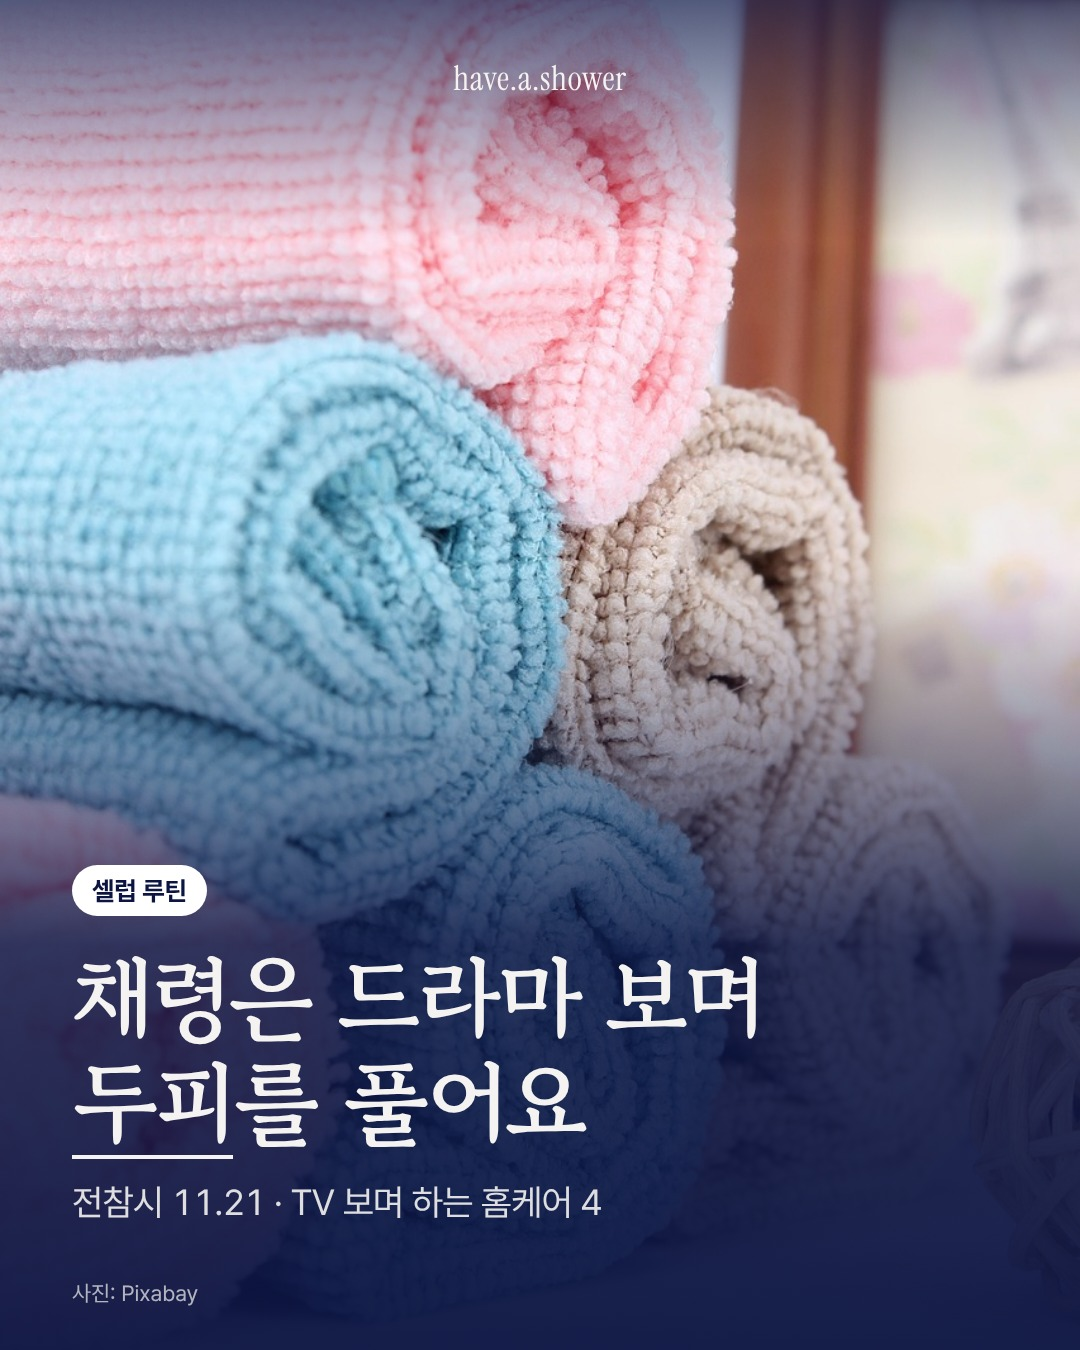
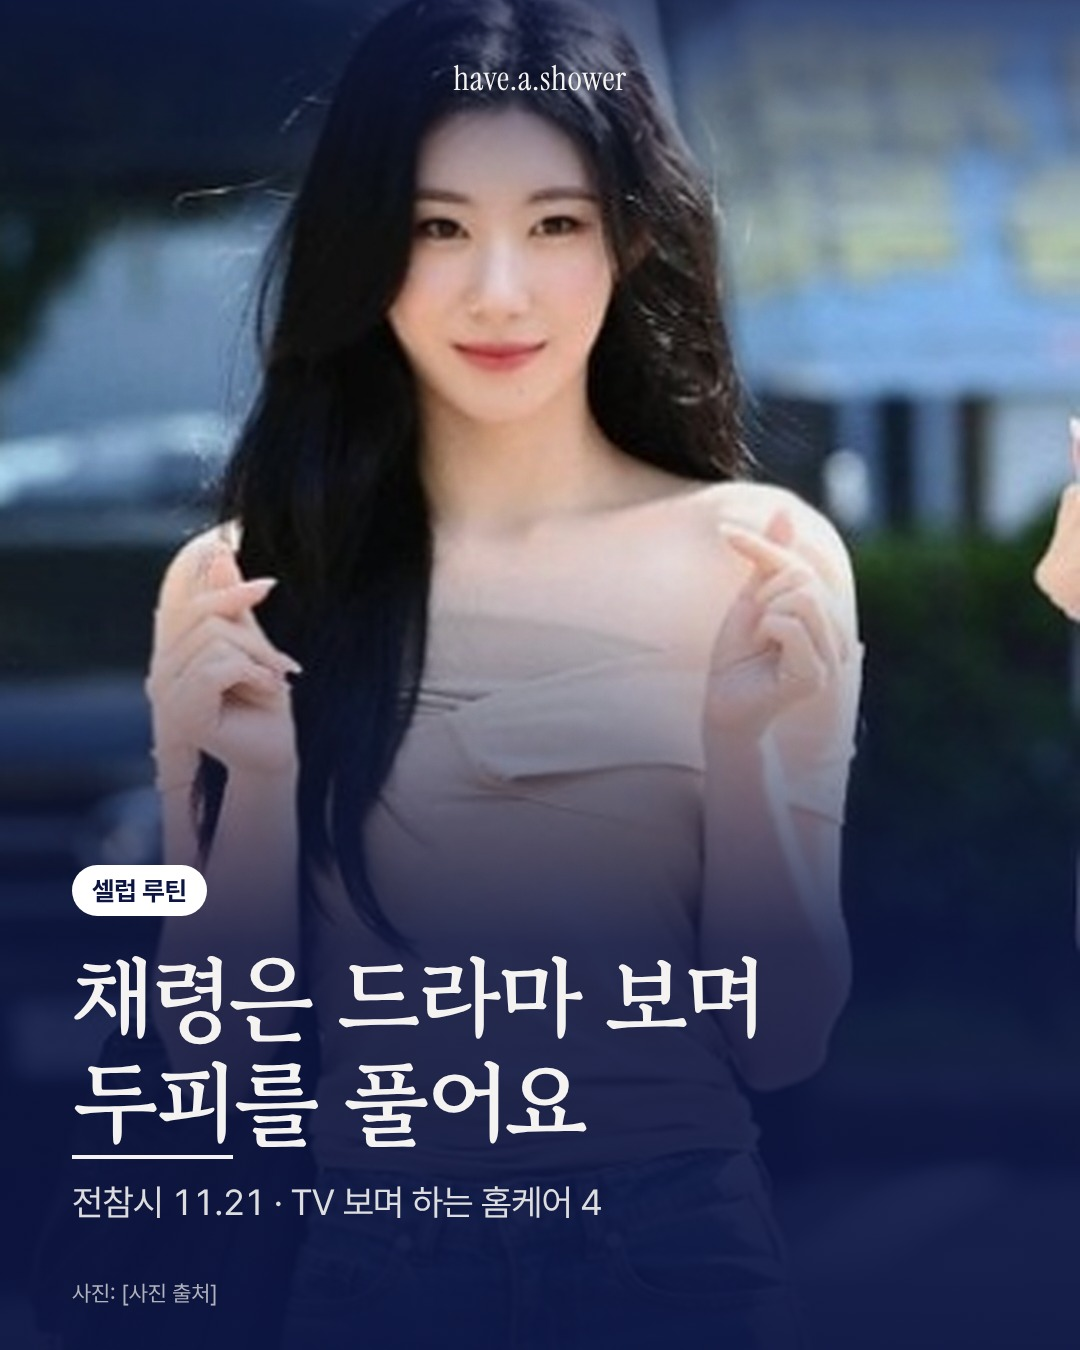
No.33·34 표지 셀럽 사진·내용 맞춤 사진으로 교체, 사진 규칙 추가
Claude-Session: https://claude.ai/code/session_01MYgG3idsmspJxhYYSZrsr7

diff --git a/posts/no33_hongjinkyung_melatonin/deck.html b/posts/no33_hongjinkyung_melatonin/deck.html
@@ -21,7 +21,7 @@
 
 <!-- 1 커버 -->
 <section class="slide dark grain" style="--grain:.06">
-  <img class="fill" src="assets/supplement_2.jpg" style="object-position:50% 30%">
+  <img class="fill" src="assets/hong.jpg" style="object-position:47% 40%">
   <div class="scrim-t"></div><div class="scrim-b"></div>
   <div class="logo" data-chrome>have.a.shower</div>
   <div style="position:absolute;left:72px;right:72px;bottom:120px;z-index:3">
@@ -29,7 +29,7 @@
     <h1 class="serif" style="font-size:92px;line-height:1.14;margin-top:28px;letter-spacing:-.04em">멜라토닌 <span style="color:var(--acc)">20mg</span>,<br>14시간 잤대요</h1>
     <p style="font-size:36px;margin-top:22px;opacity:.9">홍진경 유튜브 '공부왕찐천재' 11.19</p>
   </div>
-  <div class="src" data-small>사진: Pixabay</div>
+  <div class="src" data-small>사진: [사진 출처]</div>
 </section>
 
 <!-- 2 무슨 일 -->
@@ -40,16 +40,16 @@
     <p class="q" style="margin-top:44px">“누가 선물을 해줬는데<br>그게 20mg인 줄 몰랐어”</p>
     <p class="q" style="margin-top:20px">“나 어제 14시간 잤어”</p>
     <div style="flex:1;margin-top:48px;border-radius:24px;overflow:hidden;position:relative">
-      <img class="fill" src="assets/pills_1.jpg" style="object-position:50% 50%">
+      <img class="fill" src="assets/pillsdark_1.jpg" style="object-position:50% 55%">
     </div>
-    <p data-small style="font-size:22px;margin-top:18px;opacity:.6">전날 알레르기 약도 먹었다고 함 · 출처: iMBC 연예 2026.11.20 · 사진: Pixabay</p>
+    <p data-small style="font-size:22px;margin-top:18px;opacity:.6">전날 알레르기 약도 먹었다고 함 · 출처: iMBC 연예 2026.11.20 · 사진: Unsplash</p>
   </div>
 </section>
 
 <!-- 3 반응 -->
 <section class="slide dark">
   <div style="position:absolute;left:0;top:0;width:44%;height:100%;overflow:hidden">
-    <img class="fill" src="assets/alarm_3.jpg" style="object-position:50% 50%">
+    <img class="fill" src="assets/awake_1.jpg" style="object-position:42% 50%">
   </div>
   <div style="position:absolute;left:44%;right:0;top:0;bottom:0;padding:150px 64px 96px 64px;display:flex;flex-direction:column">
     <div class="label" style="color:var(--acc)">Reactions</div>
@@ -68,14 +68,14 @@
 <!-- 4 한국에선 -->
 <section class="slide light">
   <div style="position:absolute;left:72px;right:72px;top:96px;height:560px;border-radius:24px;overflow:hidden">
-    <img class="fill" src="assets/pills_2.jpg" style="object-position:50% 70%">
+    <img class="fill" src="assets/bottle_1.jpg" style="object-position:60% 50%">
   </div>
   <div style="position:absolute;left:72px;right:72px;top:710px">
     <div class="label" style="color:var(--cob)">In Korea</div>
     <h2 class="serif" style="font-size:68px;margin-top:20px;line-height:1.2">한국에선<br>처방받는 약이에요</h2>
     <p class="body" style="margin-top:30px">“멜라토닌은 국내에서 전문의약품으로 허가돼 있는 성분이다.” – 식약처</p>
     <p class="body" style="margin-top:18px">올해 식약처가 산 해외직구 수면 제품 11개 중 <b>9개</b>에서 멜라토닌이 나왔어요.</p>
-    <p data-small style="font-size:22px;margin-top:18px;opacity:.6">출처: 뉴시스 2026.7.2(식약처 발표) · 사진: Pixabay</p>
+    <p data-small style="font-size:22px;margin-top:18px;opacity:.6">출처: 뉴시스 2026.7.2(식약처 발표) · 사진: Unsplash</p>
   </div>
 </section>
 

diff --git a/posts/no34_chaeryung_homecare/deck.html b/posts/no34_chaeryung_homecare/deck.html
@@ -22,7 +22,7 @@
 
 <!-- 1 커버 -->
 <section class="slide dark grain" style="--grain:.06">
-  <img class="fill" src="assets/towel_2.jpg" style="object-position:50% 50%">
+  <img class="fill" src="assets/chae.jpg" style="object-position:50% 18%">
   <div class="scrim-t"></div><div class="scrim-b"></div>
   <div class="logo" data-chrome>have.a.shower</div>
   <div style="position:absolute;left:72px;right:72px;bottom:120px;z-index:3">
@@ -30,7 +30,7 @@
     <h1 class="serif" style="font-size:92px;line-height:1.14;margin-top:28px;letter-spacing:-.04em">채령은 드라마 보며<br><span style="text-decoration:underline;text-underline-offset:14px;text-decoration-thickness:4px">두피</span>를 풀어요</h1>
     <p style="font-size:36px;margin-top:22px;opacity:.9">전참시 11.21 · TV 보며 하는 홈케어 4</p>
   </div>
-  <div class="src" data-small>사진: Pixabay</div>
+  <div class="src" data-small>사진: [사진 출처]</div>
 </section>
 
 <!-- 2 화제 -->
@@ -40,16 +40,16 @@
     <h2 class="serif" style="font-size:76px;margin-top:40px;line-height:1.22">일어나서 2시간,<br>청소·홈케어·코디 끝</h2>
     <p class="body" style="margin-top:36px;max-width:880px">ITZY 채령이 MBC '전지적 참견 시점'에서 보여 준 아침. 홈케어는 따로 시간 안 내고, TV 보면서 했어요.</p>
     <div style="flex:1;margin-top:52px;border-radius:24px;overflow:hidden;position:relative">
-      <img class="fill" src="assets/sofa_1.jpg" style="object-position:50% 40%">
+      <img class="fill" src="assets/cleaning_1.jpg" style="object-position:50% 50%">
     </div>
-    <p data-small style="font-size:22px;margin-top:18px;opacity:.6">출처: 톱스타뉴스 2026.11.23 (전참시 425회, 11.21 방송) · 사진: Pixabay</p>
+    <p data-small style="font-size:22px;margin-top:18px;opacity:.6">출처: 톱스타뉴스 2026.11.23 (전참시 425회, 11.21 방송) · 사진: Unsplash</p>
   </div>
 </section>
 
 <!-- 3 루틴 -->
 <section class="slide dark">
   <div style="position:absolute;left:0;top:0;width:44%;height:100%;overflow:hidden">
-    <img class="fill" src="assets/scalp_1.jpg" style="object-position:50% 30%">
+    <img class="fill" src="assets/scalpmassager_1.jpg" style="object-position:45% 50%">
   </div>
   <div style="position:absolute;left:44%;right:0;top:0;bottom:0;padding:150px 64px 96px 64px;display:flex;flex-direction:column">
     <div class="label" style="color:var(--acc);opacity:.8">Routine</div>
@@ -80,9 +80,9 @@
     </div>
     <p class="body" style="margin-top:60px;opacity:.9">연구 21개를 모아 본 결과, 연구진은 "회복 도구보다 워밍업으로 쓰는 게 근거가 있다"고 정리했어요.</p>
     <div style="margin-top:44px;flex:1;border-radius:24px;overflow:hidden;position:relative">
-      <img class="fill" src="assets/backmassage_3.jpg" style="object-position:50% 40%">
+      <img class="fill" src="assets/foamroller_1.jpg" style="object-position:50% 58%">
     </div>
-    <p data-small style="font-size:22px;margin-top:18px;opacity:.6">출처: Wiewelhove 외, Frontiers in Physiology 2019 메타분석 · 사진: Pixabay</p>
+    <p data-small style="font-size:22px;margin-top:18px;opacity:.6">출처: Wiewelhove 외, Frontiers in Physiology 2019 메타분석 · 사진: Unsplash</p>
   </div>
 </section>
 

diff --git a/HANDOFF.md b/HANDOFF.md
@@ -22,6 +22,8 @@
 - **스레드 게시는 대표가 "스레드에 올려줘"라고 따로 말할 때만.** (11/4 자동으로 같이 올렸다가 대표가 삭제함)
 - 게시 전 반드시 점검 실행(publish=false) → 성공하면 게시(publish=true) → posted.txt 확인.
 - **표지(첫 장) 사진은 얼굴이 잘 보이거나 제품이 예쁘게 보이는 것만**(11/13 대표 결정). 얼굴이 작으면 크롭해서 크게. 안쪽 장 사진은 자유.
+- **(11/23 대표 결정) 셀럽 얘기면 표지는 그 셀럽 얼굴 사진.** 스톡 모델 얼굴로 대신하지 않음. 셀럽 사진은 대표가 주거나 출처를 확인해 쓰고, 사진 출처를 표지·캡션에 표기(모르면 [사진 출처]로 두고 대표에게 확인).
+- **(11/23 대표 결정) 안쪽 장 사진도 내용과 맞는 것만.** 청소 얘기엔 청소, 폼롤러 얘기엔 폼롤러처럼 그 장의 물건·행동이 보이는 사진. 분위기용 엉뚱한 사진(소·커피·강아지 등) 금지. 맞는 사진이 없으면 사진 없이 글·숫자 장으로.
 - 숫자·셀럽 발언은 출처 원문 그대로. 루머 금지. 다른 매체의 로고·워터마크를 지우지 않음. 사진 출처는 캡션에 표기.
 - 토큰(IG_TOKEN, THREADS_TOKEN)은 GitHub 시크릿에만 있음. 채팅·파일·로그에 절대 적지 않음.
 - 대표는 쉬운 한국어, 짧은 답을 선호. 표지 문구는 대표가 직접 고르는 경우가 많으니 2~3안 제시.
@@ -60,6 +62,8 @@
 
 ### 사진 받기
 - 이 클라우드 환경에서는 Pixabay·Unsplash 직접 다운로드가 막힘 → `briefs/images/YYYY-MM-DD/queries.txt`(`이름 | 영어 검색어`)를 푸시하면 `photos.yml`이 Pixabay에서 받아 커밋(약 40초). `credits.txt`에 작가·링크.
+- **(11/23~) Pixabay 검색은 엉뚱한 사진이 많음 → Unsplash 우선.** Bright Data `scrape_batch`로 `https://unsplash.com/s/photos/<검색어>`를 읽어 무료 사진(`images.unsplash.com/photo-…`, `plus.unsplash.com`은 유료라 제외)을 고른 뒤, `briefs/images/YYYY-MM-DD/products.txt`에 `이름 | https://images.unsplash.com/photo-…?fm=jpg&q=85&w=1600` 형식으로 적어 푸시 → 같은 워크플로가 받아 `product_이름_N.jpg`로 커밋. 작가 이름은 products.txt 메모와 게시 폴더 credits.txt에.
+- 받은 사진은 한 장에 모아(contact sheet) 직접 보고, 내용과 맞는 것만 씀.
 
 ### 렌더링(PNG)
 ```bash

diff --git a/carousel_guide.md b/carousel_guide.md
@@ -5,7 +5,8 @@
 
 ## 0. 표지 사진 규칙 (2026-11-13 대표 결정)
 - **표지(첫 장)**는 사람 **얼굴이 잘 보이거나**, **제품이 예쁘게 보이는** 사진만 쓴다. 얼굴이 작거나 어두우면 잘라서(크롭) 크게 보이게 한다.
-- 안쪽 장 사진은 자유(분위기·풍경 사진도 OK).
+- **(2026-11-23 대표 결정) 셀럽 얘기면 표지는 그 셀럽 얼굴 사진.** 스톡 모델로 대신하지 않음. 사진 출처 표기.
+- **(2026-11-23 대표 결정) 안쪽 장 사진도 그 장 내용(물건·행동)과 맞는 것만.** 관계없는 분위기 사진 금지. 맞는 사진이 없으면 글·숫자 장으로.
 - 이미 올라간 편은 그대로 둔다.
 
 ## 0-0. 2026-11-22부터 insta-cardnews 스킬 + 저장 스타일 `cardnews/my-style/have-a-shower` 사용 (대표 결정)
@@ -54,7 +55,8 @@
 마지막: 체크리스트 요약 + 제품 목록 + 저장 문구 + 댓글 질문
 
 ## 3. 체크리스트 (올리기 전)
-- [ ] 표지 사진에 얼굴이 잘 보이거나 제품이 예쁘게 보이나?
+- [ ] 표지 사진에 얼굴이 잘 보이거나 제품이 예쁘게 보이나? (셀럽 얘기면 그 셀럽 얼굴인가?)
+- [ ] 안쪽 장 사진이 전부 그 장 내용과 맞나?
 - [ ] 표지가 v3 형식(로고 위 가운데·코너 이름표·제목 2줄+부제)인가?
 - [ ] 표지에 숫자가 있고, 답은 안 보이나?
 - [ ] 첫 장 또는 2장에 A vs B 질문이 있나?

diff --git a/briefs/2026-11-23.md b/briefs/2026-11-23.md
@@ -139,3 +139,5 @@
 - 대표: 후보 2(홍진경 멜라토닌)·후보 5(채령 홈케어) 둘 다 제작. "괜찮을까?" 같은 물음 표현은 쓰지 말 것 → 표지·캡션을 단정형으로.
 - 제작 완료(미게시): `posts/no33_hongjinkyung_melatonin`(6장, 코너 이름표 '팩트 체크', 하늘색) · `posts/no34_chaeryung_homecare`(6장, '셀럽 루틴', 흰색). insta-cardnews 스킬 + have-a-shower 스타일, 4:5. 사진 Pixabay(`briefs/images/2026-11-23`, `-23b`), 각 폴더 credits.txt.
 - 확인 필요: 채령 세트는 방송 속 제품 브랜드 미공개(목록은 도구 종류만). 셀럽 본인 사진은 안 씀.
+- 대표 수정 요청: 표지에 셀럽 본인 사진(홍진경·채령, 대표 제공) + 내용과 관계없는 사진 교체. → 표지 교체, 안쪽 장은 Unsplash에서 내용 맞춤 사진(알약 손·잠 못 드는 사람·약병 / 청소·두피 마사지기·폼롤러)으로 바꿔 다시 렌더. 표지 사진 출처는 [사진 출처] 자리표시(대표 확인 필요).
+- 앞으로 규칙으로 HANDOFF·carousel_guide에 반영: 셀럽 얘기면 표지는 셀럽 얼굴, 모든 사진은 내용과 맞게, 사진은 Unsplash 우선(products.txt).
